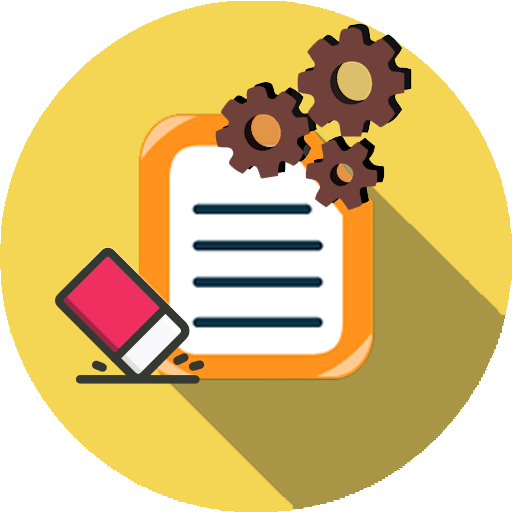
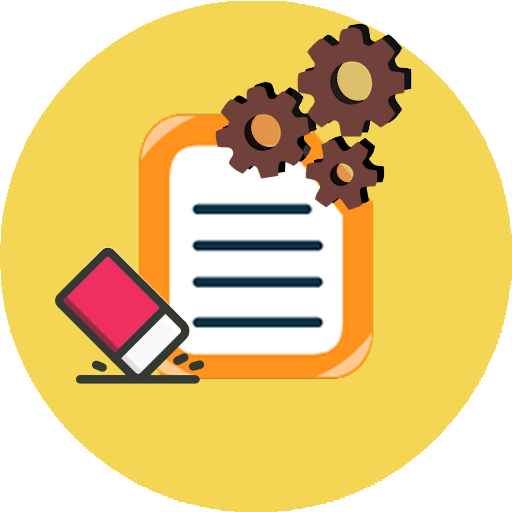
inicio componente buscar facturas

Changed region(s): [[0.3438, 0.3438, 1.0, 1.0], [0.6562, 0.3125, 0.6875, 0.3438]]

diff --git a/src/app/admin/manipular facturas/buscar-factura/buscar-factura.component.html b/src/app/admin/manipular facturas/buscar-factura/buscar-factura.component.html
@@ -1,0 +1,26 @@
+<div class="row">
+  <div class="col-12 mb-3">
+    <h3>Buscar facturas</h3>
+  </div>
+  <div class="col-5">
+    <div class="card card-padding sombra">
+      <div class="form-group">
+        <label class="control-label">Buscar factura por : </label>
+        <!-- (change)="selectTipoArticulo($event.target.value)" -->
+
+        <select id="campoI" [(ngModel)]="campo" class="form-control" (change)="changeSelect($event.target.value)" value="">
+          <option value="{{ null }}" selected disabled>Escoger tipo</option>
+          <option value="1">Por cliente</option>
+          <option value="2">Por numero comprobante</option>
+          <option value="3">Por numero factura</option>
+        </select>
+      </div>
+      <div *ngIf="campo" class="form-group">
+        <label class="control-label">{{ campoSelected + ' ' }} : </label>
+        <!-- (change)="selectTipoArticulo($event.target.value)" -->
+        <!-- (keydown.enter)="abrirModalFiltro($event.target.value)" -->
+        <input type="text" id="valorI" (focus)="$event.target.select()" [placeholder]="placeHolder" class="form-control mb-4" autocomplete="off" />
+      </div>
+    </div>
+  </div>
+</div>

diff --git a/src/app/admin/manipular facturas/buscar-factura/buscar-factura.component.ts b/src/app/admin/manipular facturas/buscar-factura/buscar-factura.component.ts
@@ -1,0 +1,36 @@
+import { Component, OnInit } from '@angular/core';
+import { DBservice } from '../../../core/services/bdservice.service';
+
+@Component({
+  selector: 'app-buscar-factura',
+  templateUrl: './buscar-factura.component.html',
+  styleUrls: ['./buscar-factura.component.scss'],
+})
+export class BuscarFacturaComponent implements OnInit {
+  facturas: any;
+  campoSelected: string;
+  constructor(private dbServ: DBservice) {}
+  campo = null;
+  placeHolder = '';
+  ngOnInit() {}
+  async pedirFactura(campo, valor) {
+    try {
+      this.facturas = this.dbServ.getFacturasByParams(campo, valor).toPromise;
+    } catch (error) {
+      console.error(error);
+    }
+  }
+  changeSelect(valor) {
+    if (valor === '1') {
+      this.campoSelected = 'Cliente';
+      this.placeHolder = 'Nombre Cliente';
+    } else if (valor === '2') {
+      this.campoSelected = 'Numero Comprobante';
+      this.placeHolder = 'Escriba numero de comprobante';
+    } else if (valor === '3') {
+      this.campoSelected = 'Numero Factura';
+      this.placeHolder = 'Escriba numero de factura';
+    }
+  }
+  saltar(campo, valor) {}
+}

diff --git a/src/app/admin/facturacion/facturacion.component.ts b/src/app/admin/facturacion/facturacion.component.ts
@@ -465,15 +465,19 @@ export class FacturacionComponent implements OnInit, OnDestroy {
       if (this.CuerpoFactura.length === 0) {
         this.dbServ.toastWarning('Factura no tiene Articulos', 'Aviso');
       } else {
-        if (this.condicion_fact === 'Crédito') {
-          this.mServ.modalTipo('imprimir');
-          this.tipoModal = 'imprimir';
-          this.abrirModal();
+        if (this.TOTAL === 0) {
+          this.dbServ.toastWarning('Total de la factura no puede ser 0', 'Aviso');
         } else {
-          const obj = { total_factura: this.TOTAL, devuelta: 0 };
-          this.mServ.modalTipo('cambio');
-          this.tipoModal = 'cambio';
-          this.abrirModal(obj);
+          if (this.condicion_fact === 'Crédito') {
+            this.mServ.modalTipo('imprimir');
+            this.tipoModal = 'imprimir';
+            this.abrirModal();
+          } else {
+            const obj = { total_factura: this.TOTAL, devuelta: 0 };
+            this.mServ.modalTipo('cambio');
+            this.tipoModal = 'cambio';
+            this.abrirModal(obj);
+          }
         }
       }
     }

diff --git a/src/app/admin/navbar-a/navbar-a.component.ts b/src/app/admin/navbar-a/navbar-a.component.ts
@@ -166,6 +166,7 @@ export class NavbarAComponent implements OnInit, OnDestroy, AfterViewInit {
           this.router.navigate(['/admin/factura/venta']);
         }, 5);
         break;
+
       case 'compra':
         this.router.navigateByUrl('/admin');
         this.actualTab = 'home';
@@ -173,6 +174,12 @@ export class NavbarAComponent implements OnInit, OnDestroy, AfterViewInit {
           this.router.navigate(['/admin/factura/compra']);
         }, 5);
         break;
+
+      case 'buscarFactura':
+        this.actualTab = 'home';
+        this.router.navigate(['/admin/buscarFactura']);
+        break;
+
       case 'articulos':
         this.actualTab = 'home';
         this.router.navigate(['/admin/articulos']);

diff --git a/src/app/admin/manipular facturas/buscar-factura/buscar-factura.component.spec.ts b/src/app/admin/manipular facturas/buscar-factura/buscar-factura.component.spec.ts
@@ -1,0 +1,25 @@
+import { async, ComponentFixture, TestBed } from '@angular/core/testing';
+
+import { BuscarFacturaComponent } from './buscar-factura.component';
+
+describe('BuscarFacturaComponent', () => {
+  let component: BuscarFacturaComponent;
+  let fixture: ComponentFixture<BuscarFacturaComponent>;
+
+  beforeEach(async(() => {
+    TestBed.configureTestingModule({
+      declarations: [ BuscarFacturaComponent ]
+    })
+    .compileComponents();
+  }));
+
+  beforeEach(() => {
+    fixture = TestBed.createComponent(BuscarFacturaComponent);
+    component = fixture.componentInstance;
+    fixture.detectChanges();
+  });
+
+  it('should create', () => {
+    expect(component).toBeTruthy();
+  });
+});

diff --git a/src/app/app-routing.module.ts b/src/app/app-routing.module.ts
@@ -16,6 +16,7 @@ import { RegistroSuplidoresComponent } from './admin/registros/registro-suplidor
 import { ProduccionComponent } from './admin/produccion/produccion.component';
 import { InventarioComponent } from './admin/inventario/inventario.component';
 import { IngresosComponent } from './admin/ingresos/ingresos.component';
+import { BuscarFacturaComponent } from './admin/manipular facturas/buscar-factura/buscar-factura.component';
 
 const routes: Routes = [
   {
@@ -57,6 +58,10 @@ const routes: Routes = [
       {
         path: 'ingresos',
         component: IngresosComponent,
+      },
+      {
+        path: 'buscarFactura',
+        component: BuscarFacturaComponent,
       },
     ],
   },

diff --git a/src/app/admin/navbar-a/navbar-a.component.html b/src/app/admin/navbar-a/navbar-a.component.html
@@ -27,9 +27,9 @@
         <!-- ultimo -->
 
         <div [ngClass]="actualTab == 'nota' ? 'subMenuFacturaA' : 'subMenuFactura'">
-          <h4 class="opcion" (click)="navegar('nota/credito')">Nota de Crédito</h4>
-          <h4 class="opcion" (click)="navegar('nota/debito')">Nota de Débito</h4>
-          <h4 class="opcion" (click)="navegar('cancelar')">Cancelar</h4>
+          <h4 class="opcion" (click)="navegar('buscarFactura')">Nota de Crédito</h4>
+          <h4 class="opcion" (click)="navegar('buscarFactura')">Nota de Débito</h4>
+          <h4 class="opcion" (click)="navegar('buscarFactura')">Cancelar factura</h4>
         </div>
       </div>
 

diff --git a/src/app/admin/admin.module.ts b/src/app/admin/admin.module.ts
@@ -35,6 +35,7 @@ import { FormCantidadEfectivoComponent } from './facturacion/form-cantidad-efect
 
 import { NgSelectModule } from '@ng-select/ng-select';
 import { FormsModule } from '@angular/forms';
+import { BuscarFacturaComponent } from './manipular facturas/buscar-factura/buscar-factura.component';
 
 @NgModule({
   declarations: [
@@ -59,6 +60,7 @@ import { FormsModule } from '@angular/forms';
     MovimientosFormComponent,
     IngresosComponent,
     FormCantidadEfectivoComponent,
+    BuscarFacturaComponent,
   ],
   imports: [
     DialogModule,

diff --git a/src/app/core/services/bdservice.service.ts b/src/app/core/services/bdservice.service.ts
@@ -196,6 +196,12 @@ export class DBservice {
   getFacturasByClienteIdAndPagada(cliente_id, pagada) {
     return this.peticion(`cabecera_facturas/cliente/${cliente_id}/pagada/${pagada}`, 'get');
   }
+  getFacturasByParams(campo, valor) {
+    const valor_enc = btoa(valor);
+    const VALOR_ENC = _.replace(valor_enc, '\\', '&^IC');
+
+    return this.peticion(`cabecera_facturas/params/${campo}/${VALOR_ENC}`, 'get');
+  }
 
   // =====================================================================
   // TOASTS
